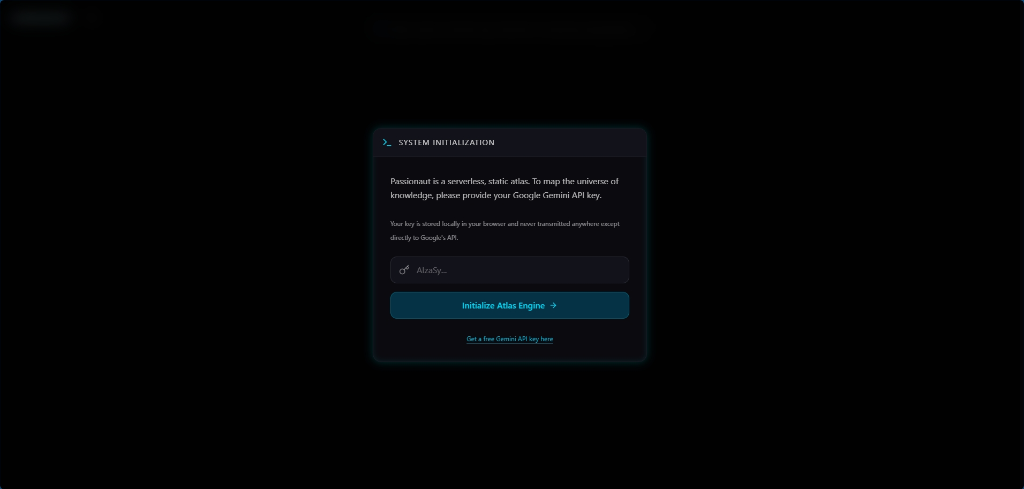
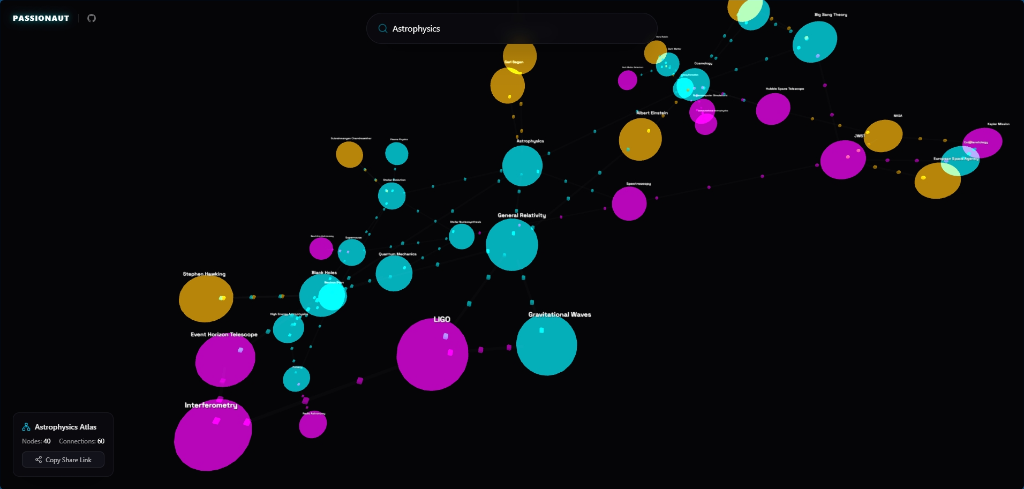
feat: replace screenshots with high quality, typography-fixed versions

diff --git a/README.md b/README.md
@@ -14,14 +14,21 @@ Passionaut is a visually overwhelming, highly complex interactive 3D knowledge g
   <img src="public/screenshots/landing.png" alt="Passionaut Dashboard" width="100%" />
 </p>
 <p align="center">
-  <em>The immersive dark-space HUD and search interface with suggestion chips.</em>
+  <em>The immersive dark-space HUD and search interface with suggestion chips and recent searches.</em>
 </p>
 
 <p align="center">
   <img src="public/screenshots/graph.png" alt="Interactive 3D Constellation" width="100%" />
 </p>
 <p align="center">
-  <em>An explorable 3D constellation of concepts with dynamically scaled 3D labels.</em>
+  <em>An explorable, fully connected 3D constellation of astrophysics with dynamically scaled 3D labels.</em>
+</p>
+
+<p align="center">
+  <img src="public/screenshots/detail.png" alt="Selected Node Detail Panel" width="100%" />
+</p>
+<p align="center">
+  <em>Deep-dive detail analysis panel displaying concept description and importance score.</em>
 </p>
 
 ## 🚀 Features
